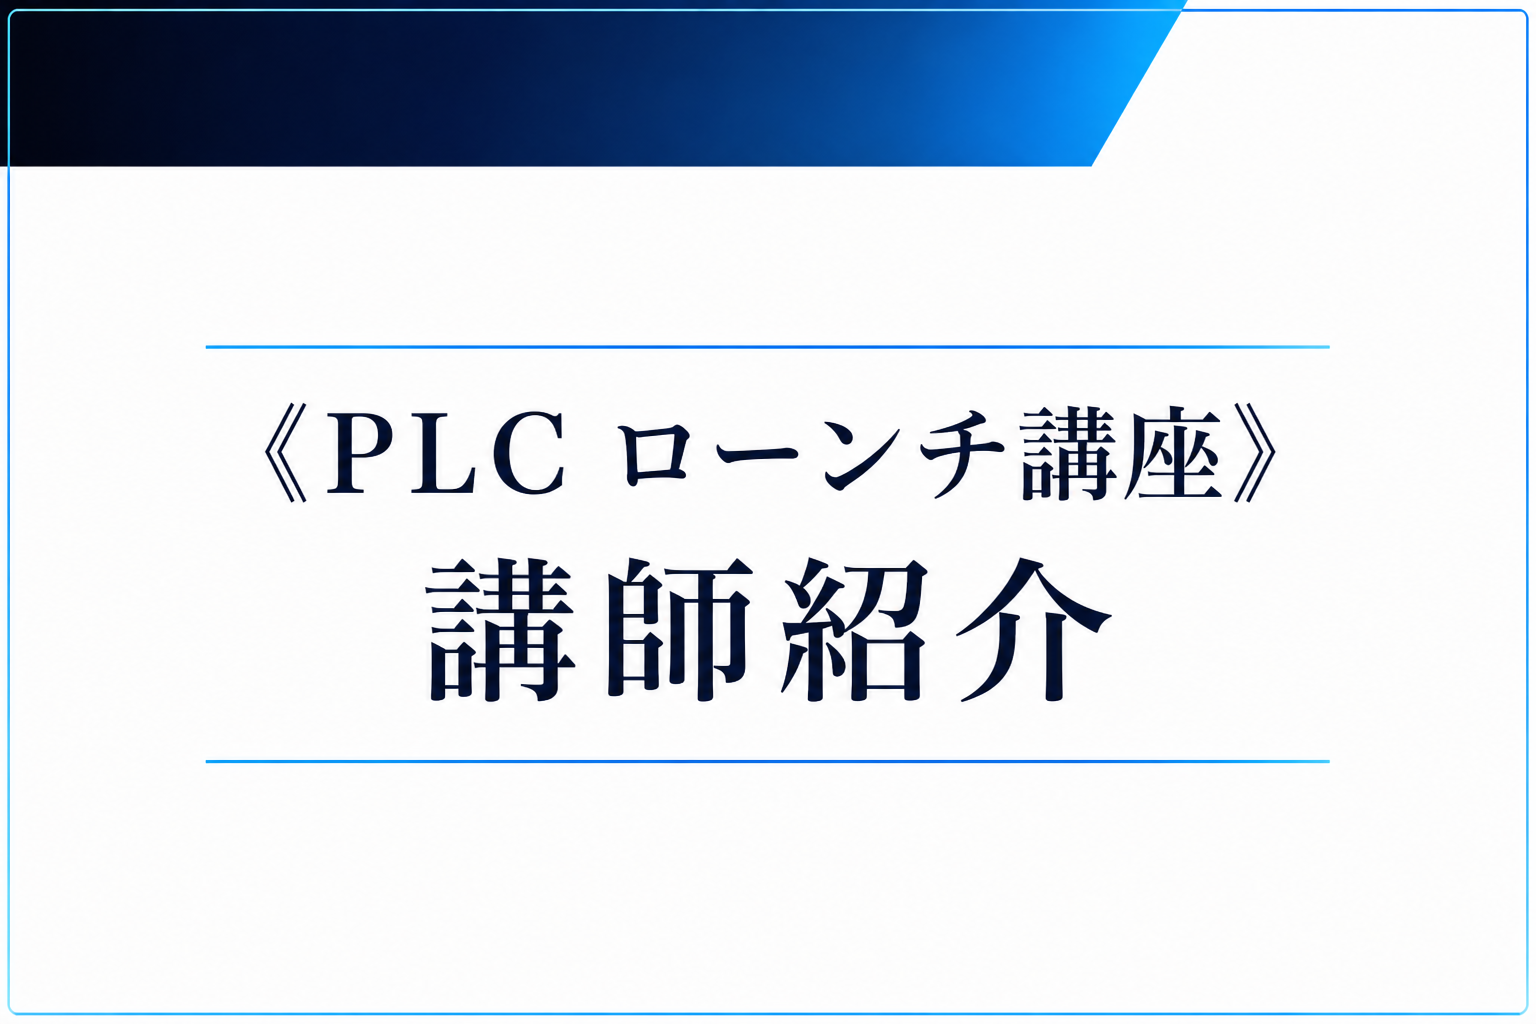
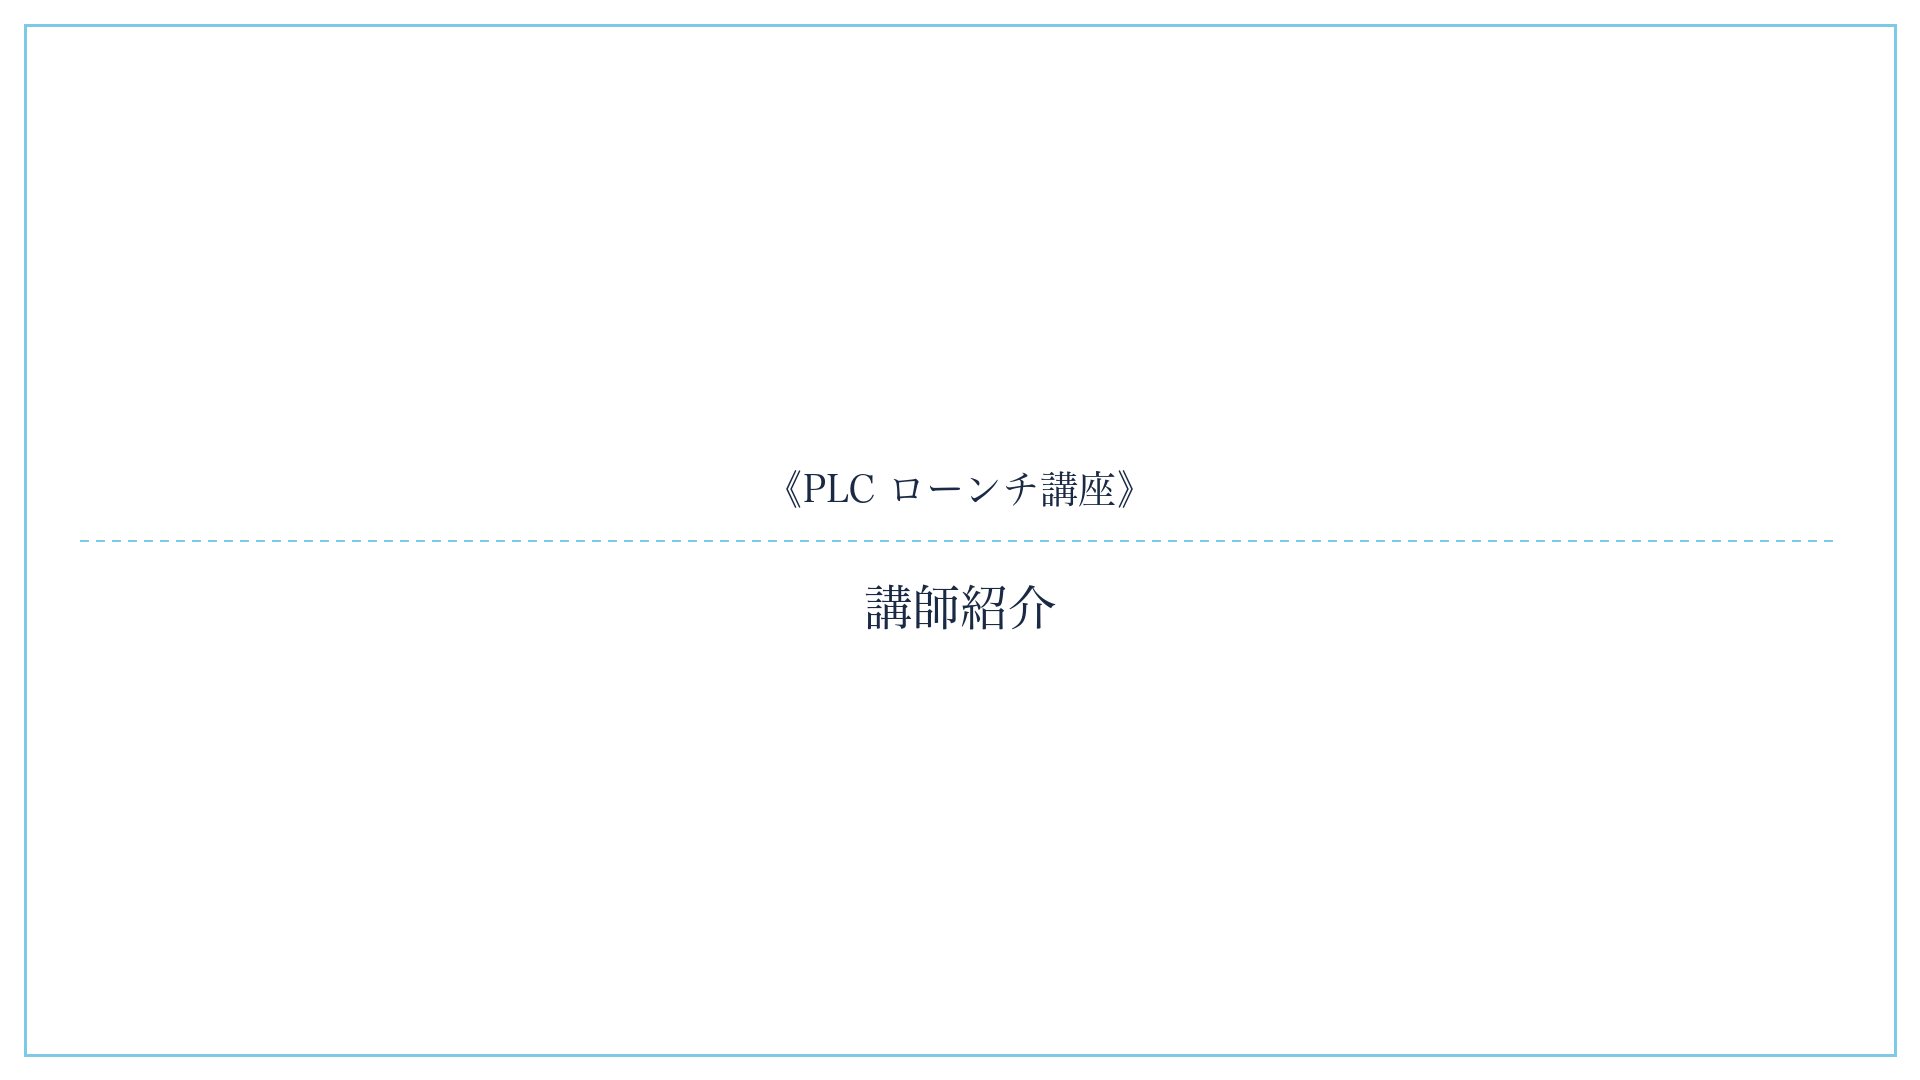
修正

diff --git a/plc-mincho-111/index.html b/plc-mincho-111/index.html
@@ -6,10 +6,10 @@ button{background:#3db5e8;border:0;border-radius:8px;padding:8px 14px;font-weigh
 main{max-width:1100px;margin:0 auto;padding:16px}.slide{display:none}.slide.active{display:block}
 .slide img{width:100%;border-radius:8px;background:#fff}.label{opacity:.9;margin:0 0 8px}
 .note{font-size:13px;opacity:.85;margin:0 0 16px;line-height:1.6}</style></head><body>
-<header><div><strong>PLC個別説明会 明朝版 109枚</strong><div style="font-size:12px;opacity:.8">空帯削除・色味統一済み</div></div>
+<header><div><strong>PLC個別説明会 明朝版 109枚</strong></div>
 <div><button type="button" id="prev">前へ</button> <span id="c"></span> <button type="button" id="next">次へ</button></div></header>
 <main>
-<p class="note">帯に文字がないスライドは帯を削除。51-111枚はPIL再生成で白背景・ティール枠に統一（75/82/89/90/104/105は手修正版を維持）。107削除済み。</p>
+<p class="note">GenerateImage埋め込み空帯（y≈100）を検出・除去。1/8/12/15/19/45はPIL再描画。</p>
 <section class="slide"><p class="label">1. 型1_歓迎</p><img src="slides/01_型1_歓迎.png" alt=""></section><section class="slide"><p class="label">2. 型5_石田プロフィール</p><img src="slides/02_型5_石田プロフィール.png" alt=""></section><section class="slide"><p class="label">3. 型6_ご安心ください</p><img src="slides/03_型6_ご安心ください.png" alt=""></section><section class="slide"><p class="label">4. 型3_注意事項</p><img src="slides/04_型3_注意事項.png" alt=""></section><section class="slide"><p class="label">5. 型7_有意義な時間</p><img src="slides/05_型7_有意義な時間.png" alt=""></section><section class="slide"><p class="label">6. 型2_ぜひ教えて</p><img src="slides/06_型2_ぜひ教えて.png" alt=""></section><section class="slide"><p class="label">7. 型3_質問リスト</p><img src="slides/07_型3_質問リスト.png" alt=""></section><section class="slide"><p class="label">8. 型1_講師紹介中扉</p><img src="slides/08_型1_講師紹介中扉.png" alt=""></section><section class="slide"><p class="label">9. 型5_田中祐一</p><img src="slides/09_型5_田中祐一.png" alt=""></section><section class="slide"><p class="label">10. 型2_９認定講師による個別コーチングコ</p><img src="slides/100_型2_９認定講師による個別コーチングコ.png" alt=""></section><section class="slide"><p class="label">11. 型2_１0W3参加権利受講生同士で行う</p><img src="slides/101_型2_１0W3参加権利受講生同士で行う.png" alt=""></section><section class="slide"><p class="label">12. 図解_私達の仲間になりませんか</p><img src="slides/102_図解_私達の仲間になりませんか.png" alt=""></section><section class="slide"><p class="label">13. 型2_PLCプロダクトローンチコミュニ</p><img src="slides/103_型2_PLCプロダクトローンチコミュニ.png" alt=""></section><section class="slide"><p class="label">14. 型2_12回分割払い1320000円</p><img src="slides/104_型2_12回分割払い1320000円.png" alt=""></section><section class="slide"><p class="label">15. 型2_全国ツアー限定特別価格一括一括決</p><img src="slides/105_型2_全国ツアー限定特別価格一括一括決.png" alt=""></section><section class="slide"><p class="label">16. 型2_サポート延長特典</p><img src="slides/106_型2_サポート延長特典.png" alt=""></section><section class="slide"><p class="label">17. 型2_さらにあなたの安心と安全を守るた</p><img src="slides/108_型2_さらにあなたの安心と安全を守るた.png" alt=""></section><section class="slide"><p class="label">18. 型3_安心と安全の成果保証</p><img src="slides/109_型3_安心と安全の成果保証.png" alt=""></section><section class="slide"><p class="label">19. 型3_プロデュース実績</p><img src="slides/10_型3_プロデュース実績.png" alt=""></section><section class="slide"><p class="label">20. 型2_なぜここまでするのか</p><img src="slides/110_型2_なぜここまでするのか.png" alt=""></section><section class="slide"><p class="label">21. 型3_複数参加代理出席の条件</p><img src="slides/111_型3_複数参加代理出席の条件.png" alt=""></section><section class="slide"><p class="label">22. 型7_コンサル実績</p><img src="slides/11_型7_コンサル実績.png" alt=""></section><section class="slide"><p class="label">23. 型2_なぜゼロから</p><img src="slides/12_型2_なぜゼロから.png" alt=""></section><section class="slide"><p class="label">24. 型7_三つの丸</p><img src="slides/13_型7_三つの丸.png" alt=""></section><section class="slide"><p class="label">25. 型3_8大メリット</p><img src="slides/14_型3_8大メリット.png" alt=""></section><section class="slide"><p class="label">26. 型1_向いている人</p><img src="slides/15_型1_向いている人.png" alt=""></section><section class="slide"><p class="label">27. 型3_向いている人1</p><img src="slides/16_型3_向いている人1.png" alt=""></section><section class="slide"><p class="label">28. 型3_向いている人2</p><img src="slides/17_型3_向いている人2.png" alt=""></section><section class="slide"><p class="label">29. 型3_向いている人3</p><img src="slides/18_型3_向いている人3.png" alt=""></section><section class="slide"><p class="label">30. 型1_成果大勢</p><img src="slides/19_型1_成果大勢.png" alt=""></section><section class="slide"><p class="label">31. 型7_600名100億_グラフ</p><img src="slides/20_型7_600名100億_グラフ.png" alt=""></section><section class="slide"><p class="label">32. お客様の声_1</p><img src="slides/21_お客様の声_1.png" alt=""></section><section class="slide"><p class="label">33. お客様の声_2</p><img src="slides/22_お客様の声_2.png" alt=""></section><section class="slide"><p class="label">34. お客様の声_3</p><img src="slides/23_お客様の声_3.png" alt=""></section><section class="slide"><p class="label">35. お客様の声_4</p><img src="slides/24_お客様の声_4.png" alt=""></section><section class="slide"><p class="label">36. お客様の声_5</p><img src="slides/25_お客様の声_5.png" alt=""></section><section class="slide"><p class="label">37. お客様の声_6</p><img src="slides/26_お客様の声_6.png" alt=""></section><section class="slide"><p class="label">38. お客様の声_7</p><img src="slides/27_お客様の声_7.png" alt=""></section><section class="slide"><p class="label">39. お客様の声_8</p><img src="slides/28_お客様の声_8.png" alt=""></section><section class="slide"><p class="label">40. 型2_質問です</p><img src="slides/29_型2_質問です.png" alt=""></section><section class="slide"><p class="label">41. 型2_決め手</p><img src="slides/30_型2_決め手.png" alt=""></section><section class="slide"><p class="label">42. 型2_今後の目標</p><img src="slides/31_型2_今後の目標.png" alt=""></section><section class="slide"><p class="label">43. 図解_誤ったビジネス構築</p><img src="slides/32_図解_誤ったビジネス構築.png" alt=""></section><section class="slide"><p class="label">44. 型2_最強の集客</p><img src="slides/33_型2_最強の集客.png" alt=""></section><section class="slide"><p class="label">45. 図解_ローンチの流れ</p><img src="slides/34_図解_ローンチの流れ.png" alt=""></section><section class="slide"><p class="label">46. 図解_ローンチ全体像</p><img src="slides/35_図解_ローンチ全体像.png" alt=""></section><section class="slide"><p class="label">47. 型3_チームの組み方</p><img src="slides/36_型3_チームの組み方.png" alt=""></section><section class="slide"><p class="label">48. 図解_作業工程リスト</p><img src="slides/37_図解_作業工程リスト.png" alt=""></section><section class="slide"><p class="label">49. 型3_ビジネスの方程式</p><img src="slides/38_型3_ビジネスの方程式.png" alt=""></section><section class="slide"><p class="label">50. 型3_ゴール逆算</p><img src="slides/39_型3_ゴール逆算.png" alt=""></section><section class="slide"><p class="label">51. 図解_逆算設計</p><img src="slides/40_図解_逆算設計.png" alt=""></section><section class="slide"><p class="label">52. 型3_覚悟</p><img src="slides/41_型3_覚悟.png" alt=""></section><section class="slide"><p class="label">53. 型2_成功者と失敗者</p><img src="slides/42_型2_成功者と失敗者.png" alt=""></section><section class="slide"><p class="label">54. 図解_うまくいかない要因</p><img src="slides/43_図解_うまくいかない要因.png" alt=""></section><section class="slide"><p class="label">55. 型7_結論</p><img src="slides/44_型7_結論.png" alt=""></section><section class="slide"><p class="label">56. 型2_からまわり</p><img src="slides/45_型2_からまわり.png" alt=""></section><section class="slide"><p class="label">57. 図解_事例1</p><img src="slides/46_図解_事例1.png" alt=""></section><section class="slide"><p class="label">58. 図解_事例2</p><img src="slides/47_図解_事例2.png" alt=""></section><section class="slide"><p class="label">59. 図解_事例3</p><img src="slides/48_図解_事例3.png" alt=""></section><section class="slide"><p class="label">60. 図解_事例4</p><img src="slides/49_図解_事例4.png" alt=""></section><section class="slide"><p class="label">61. 型2_お客さまの心をわしづかむコンセプ</p><img src="slides/51_型2_お客さまの心をわしづかむコンセプ.png" alt=""></section><section class="slide"><p class="label">62. 図解_１ヶ月で約450万円の売上</p><img src="slides/52_図解_１ヶ月で約450万円の売上.png" alt=""></section><section class="slide"><p class="label">63. 図解_3週間で約700万円の売上</p><img src="slides/53_図解_3週間で約700万円の売上.png" alt=""></section><section class="slide"><p class="label">64. 図解_3週間で約850万円の売上</p><img src="slides/54_図解_3週間で約850万円の売上.png" alt=""></section><section class="slide"><p class="label">65. 図解_2週間で約2000万円の売上</p><img src="slides/55_図解_2週間で約2000万円の売上.png" alt=""></section><section class="slide"><p class="label">66. 図解_2週間で約4000万円の売上</p><img src="slides/56_図解_2週間で約4000万円の売上.png" alt=""></section><section class="slide"><p class="label">67. 図解_3週間で80万円の売上</p><img src="slides/57_図解_3週間で80万円の売上.png" alt=""></section><section class="slide"><p class="label">68. 型7_結論</p><img src="slides/58_型7_結論.png" alt=""></section><section class="slide"><p class="label">69. 型2_これで本当に申し込みが増えるのか</p><img src="slides/59_型2_これで本当に申し込みが増えるのか.png" alt=""></section><section class="slide"><p class="label">70. 型2_自分でがんばってみることはできる</p><img src="slides/60_型2_自分でがんばってみることはできる.png" alt=""></section><section class="slide"><p class="label">71. 型3_田中祐一の基準</p><img src="slides/61_型3_田中祐一の基準.png" alt=""></section><section class="slide"><p class="label">72. 型2_コンセプトが作れるようになるには</p><img src="slides/62_型2_コンセプトが作れるようになるには.png" alt=""></section><section class="slide"><p class="label">73. 型3_結果を出すためには</p><img src="slides/63_型3_結果を出すためには.png" alt=""></section><section class="slide"><p class="label">74. 型2_結果を出すためのすべてが揃います</p><img src="slides/64_型2_結果を出すためのすべてが揃います.png" alt=""></section><section class="slide"><p class="label">75. 型2_QA</p><img src="slides/65_型2_QA.png" alt=""></section><section class="slide"><p class="label">76. 型2_QA</p><img src="slides/66_型2_QA.png" alt=""></section><section class="slide"><p class="label">77. 型2_言い訳をせずに最優先で向きあえま</p><img src="slides/67_型2_言い訳をせずに最優先で向きあえま.png" alt=""></section><section class="slide"><p class="label">78. 型2_成功している起業家は全員が投資対</p><img src="slides/68_型2_成功している起業家は全員が投資対.png" alt=""></section><section class="slide"><p class="label">79. 型2_お金がないVS投資対効果</p><img src="slides/69_型2_お金がないVS投資対効果.png" alt=""></section><section class="slide"><p class="label">80. 型2_時間がないVS時間を作る時間対効</p><img src="slides/70_型2_時間がないVS時間を作る時間対効.png" alt=""></section><section class="slide"><p class="label">81. 型2_自信がないVS自信は行動して身に</p><img src="slides/71_型2_自信がないVS自信は行動して身に.png" alt=""></section><section class="slide"><p class="label">82. 型2_失敗とはなにか</p><img src="slides/72_型2_失敗とはなにか.png" alt=""></section><section class="slide"><p class="label">83. 型2_PLC6ヶ月実践コース</p><img src="slides/73_型2_PLC6ヶ月実践コース.png" alt=""></section><section class="slide"><p class="label">84. 型2_だれのために</p><img src="slides/74_型2_だれのために.png" alt=""></section><section class="slide"><p class="label">85. 型2_なぜ田中祐一はPLCを広めている</p><img src="slides/75_型2_なぜ田中祐一はPLCを広めている.png" alt=""></section><section class="slide"><p class="label">86. 型2_理由１全員で勝つ社会の実現</p><img src="slides/76_型2_理由１全員で勝つ社会の実現.png" alt=""></section><section class="slide"><p class="label">87. 図解_slide77</p><img src="slides/77_図解_slide77.png" alt=""></section><section class="slide"><p class="label">88. 型2_理由２将来のビジネスパートナーの</p><img src="slides/78_型2_理由２将来のビジネスパートナーの.png" alt=""></section><section class="slide"><p class="label">89. 型2_この講座のスタンス</p><img src="slides/79_型2_この講座のスタンス.png" alt=""></section><section class="slide"><p class="label">90. 型3_うまくいかない人の価値観</p><img src="slides/80_型3_うまくいかない人の価値観.png" alt=""></section><section class="slide"><p class="label">91. 型3_うまくいく人の価値観</p><img src="slides/81_型3_うまくいく人の価値観.png" alt=""></section><section class="slide"><p class="label">92. 型2_１案件で300万円1000万円を</p><img src="slides/82_型2_１案件で300万円1000万円を.png" alt=""></section><section class="slide"><p class="label">93. 型2_PLC３大特徴</p><img src="slides/83_型2_PLC３大特徴.png" alt=""></section><section class="slide"><p class="label">94. 型3_1座学ではなく実践中心3ヶ月以内</p><img src="slides/84_型3_1座学ではなく実践中心3ヶ月以内.png" alt=""></section><section class="slide"><p class="label">95. 図解_プレミアムコース専用反転学習型メ</p><img src="slides/85_図解_プレミアムコース専用反転学習型メ.png" alt=""></section><section class="slide"><p class="label">96. 型3_２相互支援環境仲間を応援する</p><img src="slides/86_型3_２相互支援環境仲間を応援する.png" alt=""></section><section class="slide"><p class="label">97. 型2_3オマージュ思考テンプレート事例</p><img src="slides/87_型2_3オマージュ思考テンプレート事例.png" alt=""></section><section class="slide"><p class="label">98. 型3_PLCはここが違う</p><img src="slides/88_型3_PLCはここが違う.png" alt=""></section><section class="slide"><p class="label">99. 型2_PLC10大特典</p><img src="slides/89_型2_PLC10大特典.png" alt=""></section><section class="slide"><p class="label">100. 型3_１田中祐一によるスタートダッシュ</p><img src="slides/90_型3_１田中祐一によるスタートダッシュ.png" alt=""></section><section class="slide"><p class="label">101. 型2_3田中祐一によるグループコンサル</p><img src="slides/91_型2_3田中祐一によるグループコンサル.png" alt=""></section><section class="slide"><p class="label">102. 型2_４講師によるグループチャットでの</p><img src="slides/92_型2_４講師によるグループチャットでの.png" alt=""></section><section class="slide"><p class="label">103. 型2_５特別ワークショップ懇親会参加券</p><img src="slides/93_型2_５特別ワークショップ懇親会参加券.png" alt=""></section><section class="slide"><p class="label">104. 図解_slide94</p><img src="slides/94_図解_slide94.png" alt=""></section><section class="slide"><p class="label">105. 型3_リアル会場都内オンライン1月</p><img src="slides/95_型3_リアル会場都内オンライン1月.png" alt=""></section><section class="slide"><p class="label">106. 型2_６各種勉強会作業会を実施勉強会</p><img src="slides/96_型2_６各種勉強会作業会を実施勉強会.png" alt=""></section><section class="slide"><p class="label">107. 図解_日程イメージ全てに参加必須ではあ</p><img src="slides/97_図解_日程イメージ全てに参加必須ではあ.png" alt=""></section><section class="slide"><p class="label">108. 型3_７学習効果を最大限高める反転学習</p><img src="slides/98_型3_７学習効果を最大限高める反転学習.png" alt=""></section><section class="slide"><p class="label">109. 型3_８外注先・おすすめシステム紹介・</p><img src="slides/99_型3_８外注先・おすすめシステム紹介・.png" alt=""></section>
 </main>
 <script>const s=[...document.querySelectorAll('.slide')];let i=0;const c=document.getElementById('c');
